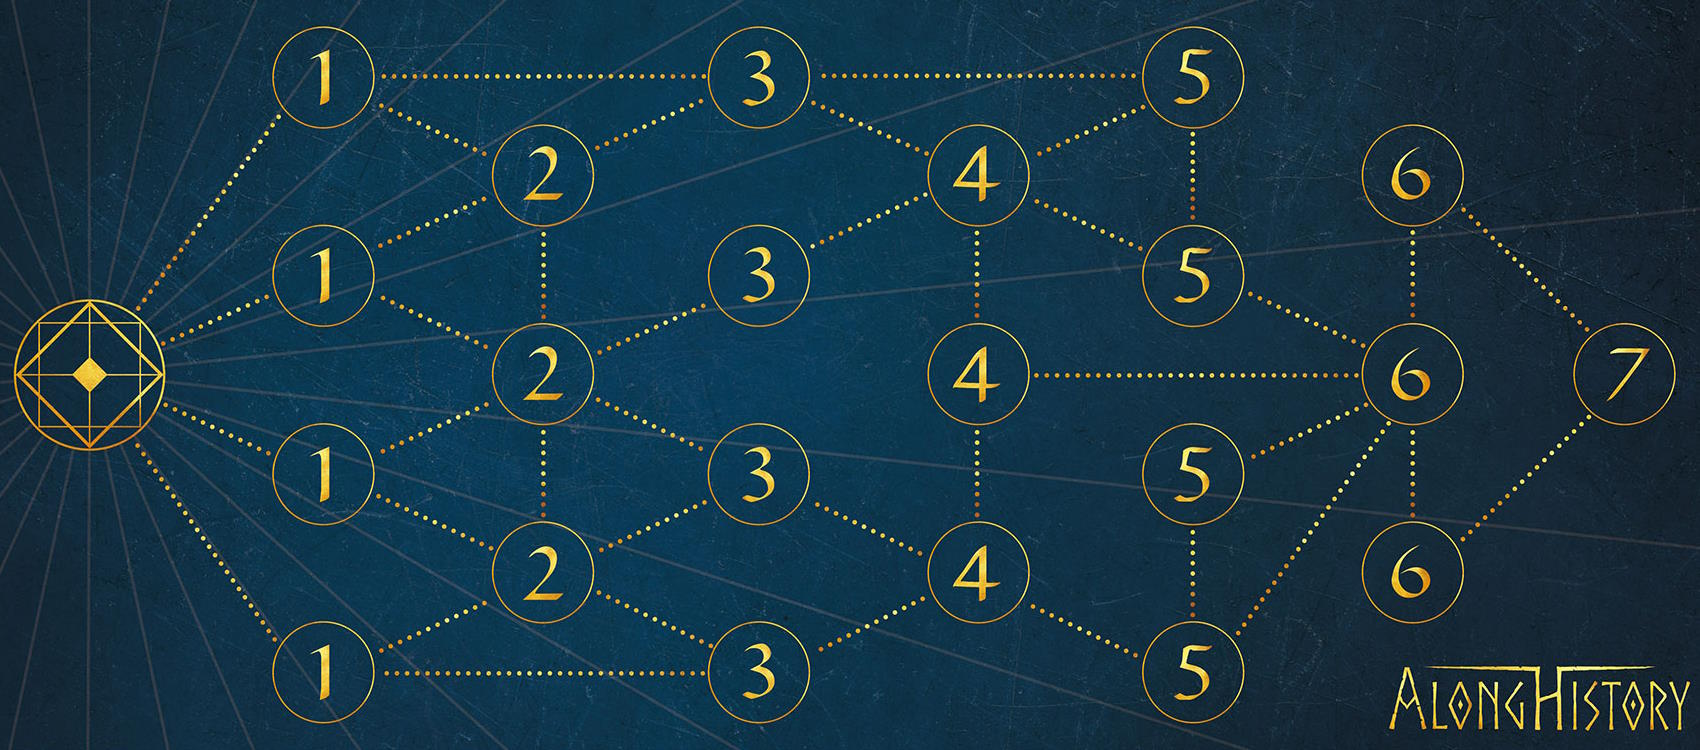
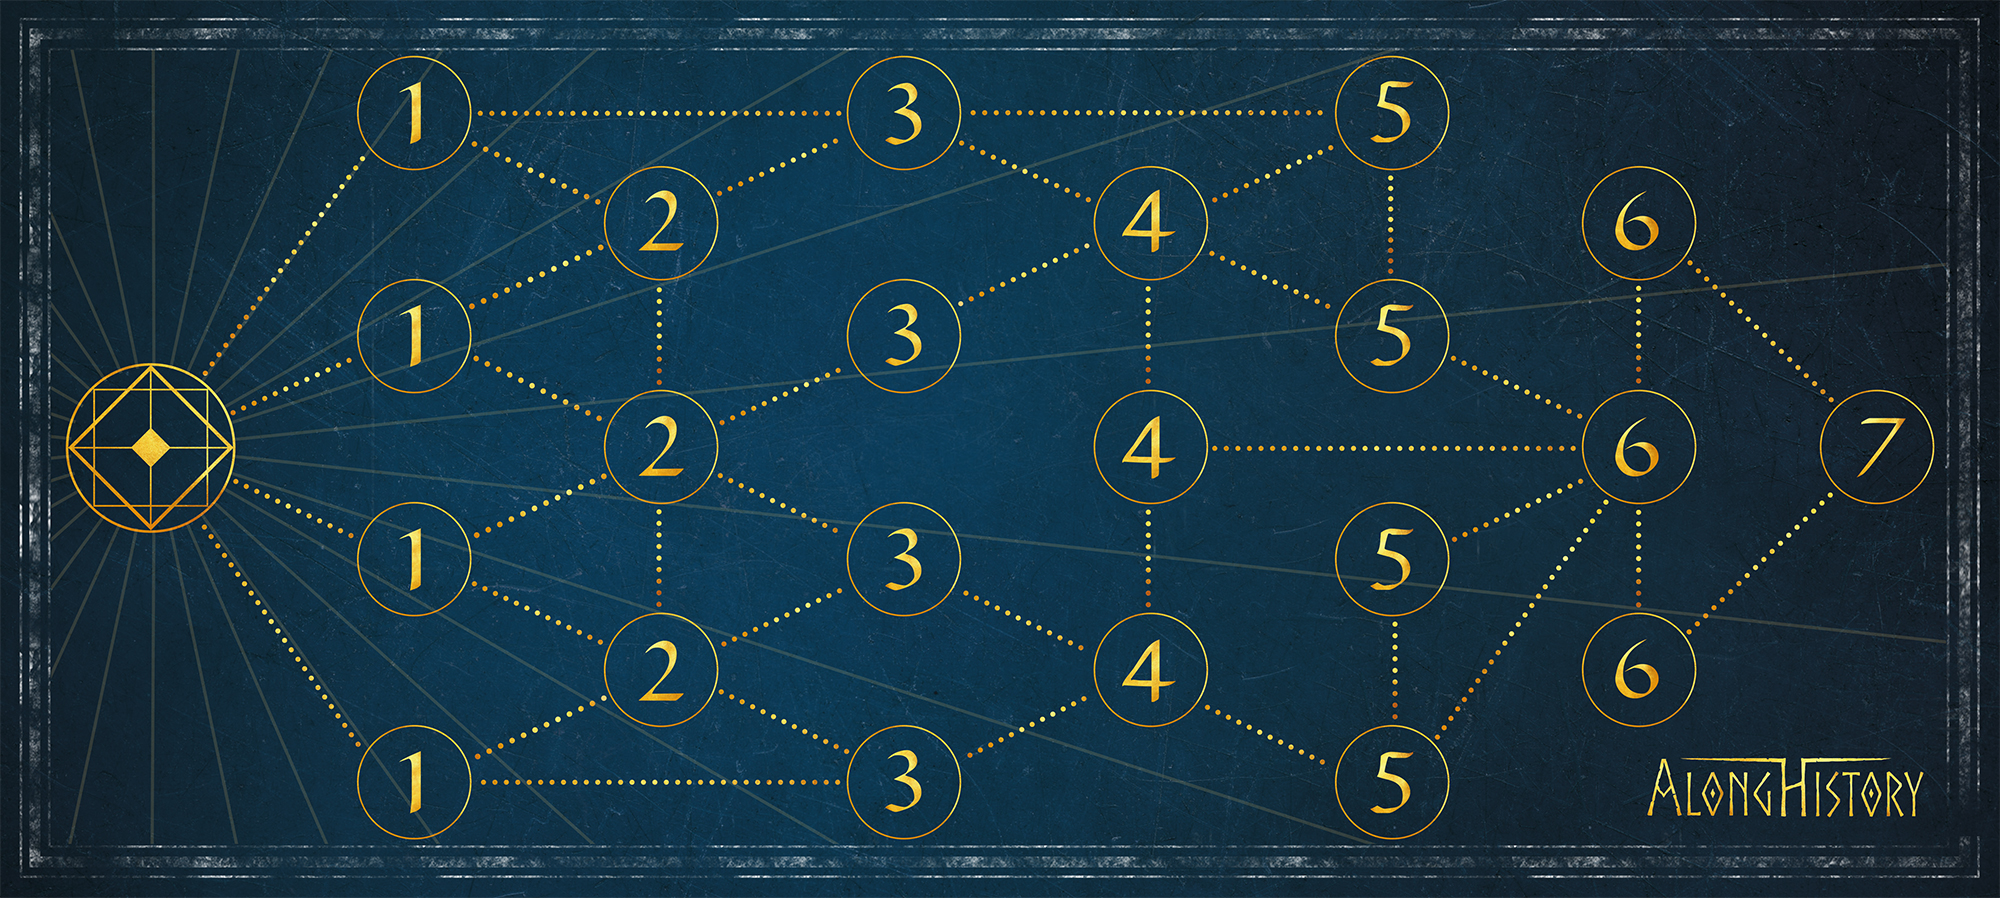
New board

diff --git a/app/src/locators/AchievementsBoardLocator.ts b/app/src/locators/AchievementsBoardLocator.ts
@@ -10,7 +10,7 @@ class AchievementsBoardLocator extends ItemLocator {
 
   getPositionOnParent(location: Location) {
     const x = location.x!
-    return { x: x === 0 ? 5.3 : x === 7 ? 95.6 : 6.3 + 12.8 * x, y: 50 + 13.25 * location.y! }
+    return { x: x === 0 ? 7.55 : x === 7 ? 93.9 : 8.5 + 12.25 * x, y: 50 + 12.4 * location.y! }
   }
 
   getPosition(item: MaterialItem, { type }: ItemContext): Coordinates {

diff --git a/app/src/material/BoardDescription.tsx b/app/src/material/BoardDescription.tsx
@@ -5,8 +5,8 @@ import board1 from '../images/board/BoardFront.jpg'
 
 class AlongHistoryBoardDescription extends BoardDescription {
   image = board1 // TODO: game option & dynamic image
-  width = 39.95
-  height = 17.625
+  width = 41.826
+  height = 18.78
 
   staticItem = { location: { type: LocationType.Table } }
   rules = () => <></>
